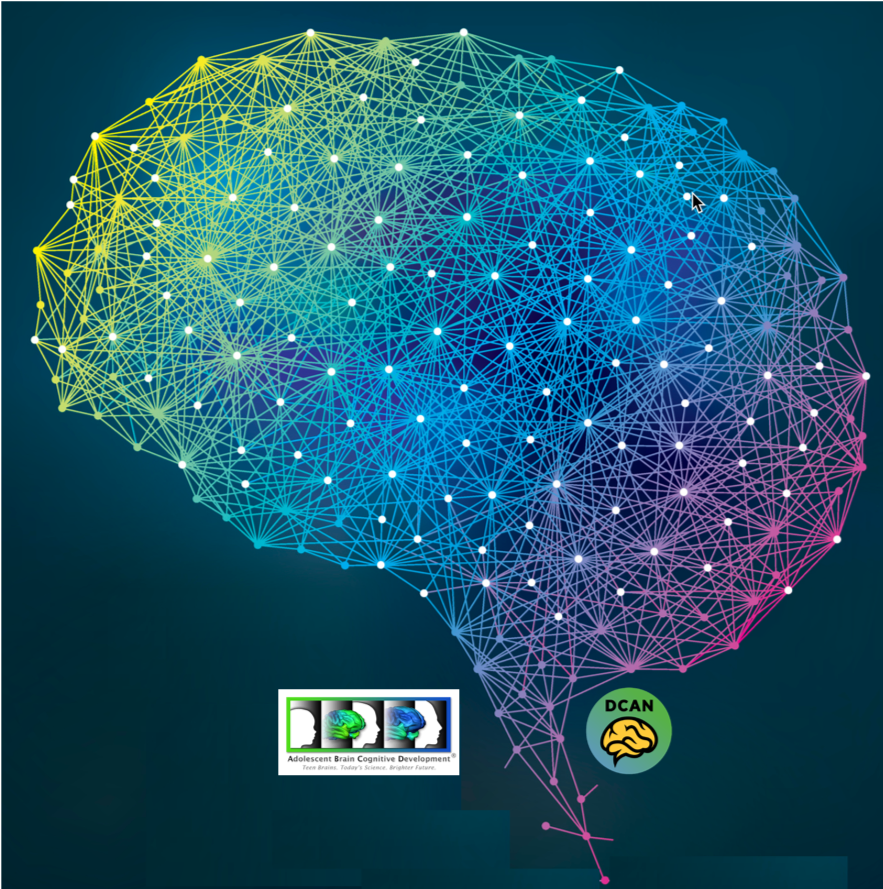
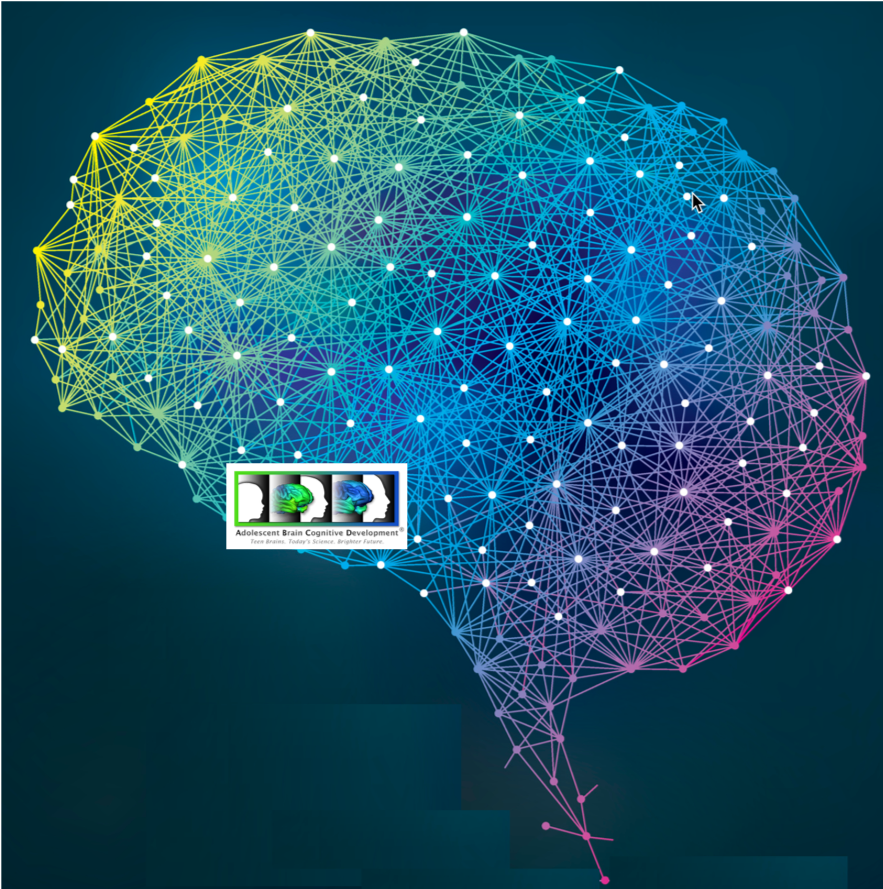
update homepage and disable signups

Changed region(s): [[0.2446, 0.5163, 0.4892, 0.6378], [0.3058, 0.7593, 0.5198, 0.8808], [0.6421, 0.7593, 0.7644, 0.8808]]

diff --git a/src/components/SignUp.vue b/src/components/SignUp.vue
@@ -74,8 +74,8 @@
         </b-form-group>
 
 
-        <b-button type="submit" variant="primary" :disabled="!validated || !form.consented">Submit</b-button>
-<!--        <b-button type="submit" variant="primary" :disabled="true">Submit</b-button> -->
+<!--        <b-button type="submit" variant="primary" :disabled="!validated || !form.consented">Submit</b-button> -->
+        <b-button type="submit" variant="primary" :disabled="true">Submit</b-button>
 
         <p class="mt-3">
         Already have an account? <router-link to="/login">Log In</router-link>
